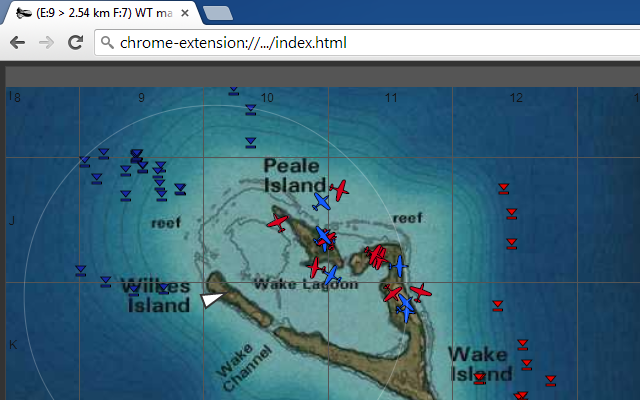
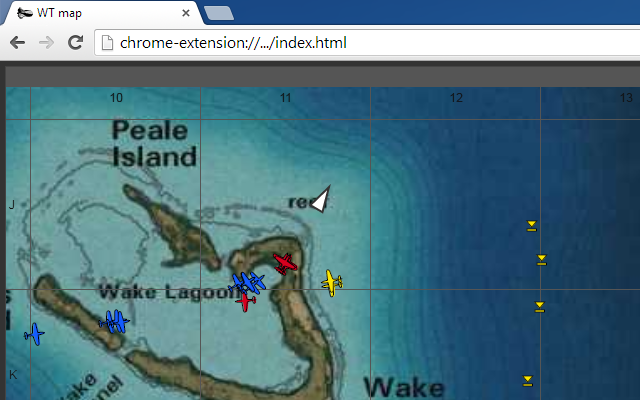
remove proximity alerts

diff --git a/README.md b/README.md
@@ -9,8 +9,6 @@ setups or on a different device from the one running the game. The purpose
 of the extension is to help improve situational awareness by adding a level
 of nicety to the map presentation.
 
-[![How to use](https://raw.github.com/slikts/wtmap/master/youtube.png)](http://youtu.be/fOV34dUWJ-g)
-
 Features
 --------
 
@@ -18,27 +16,15 @@ Features
 
 ![Options screenshot](https://raw.github.com/slikts/wtmap/master/options.png)
 
-#### New
-
  * Different plane icons for fighters, bombers and attackers
  * Plane icons show plane orientation
- * Proximity alert:
-   * Plays a sound when the number of nearby enemies increases
-   * Distance-based alert level (alerts sound different the closer the enemy is)
  * Automatic map centering and zooming on player
- * Configurable options:
-   * Proximity alert radius and volume
-   * Plane icon size
+ * Configurable plane icon size
  * Info in page title:
-   * Number of enemies within proximity radius
+   * The number of spotted enemies
    * The distance to the closest enemy
    * The total number of allied planes
  * Ground units never obscure plane icons
-
-#### Planned
-
- * Configurable sound for proximity alert
- * Firefox version (?)
 
 Installation
 ------------
@@ -87,6 +73,10 @@ increasing the update rate prevents the map image from being loaded.
 
 Changelog
 ---------
+
+**0.2.1** [2013-12-16]
+
+ * Removed proximity alerts
 
 **0.1.7** [2013-12-16]
 
